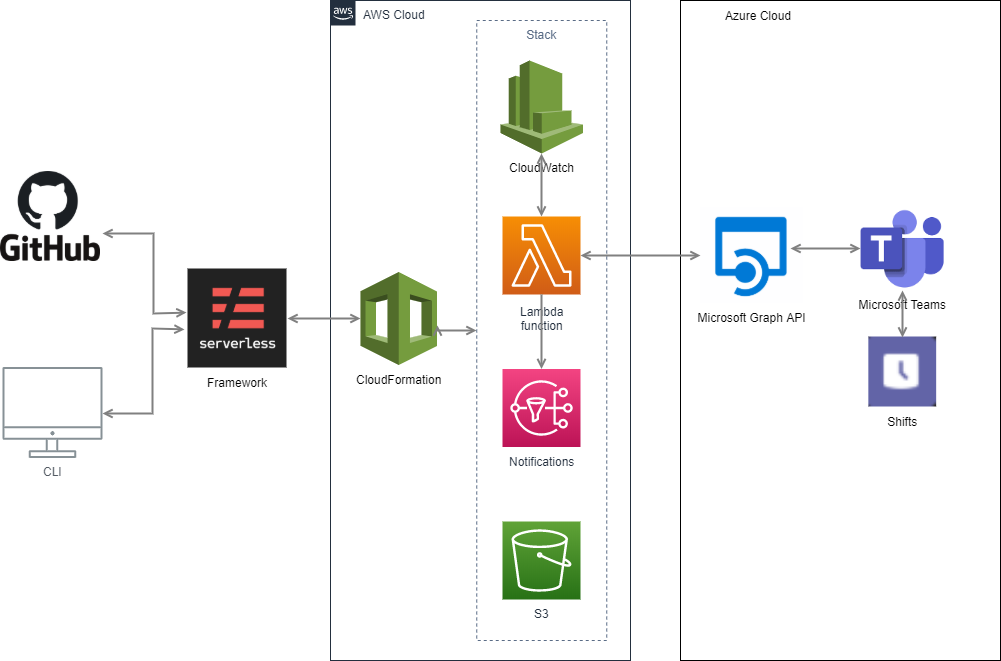
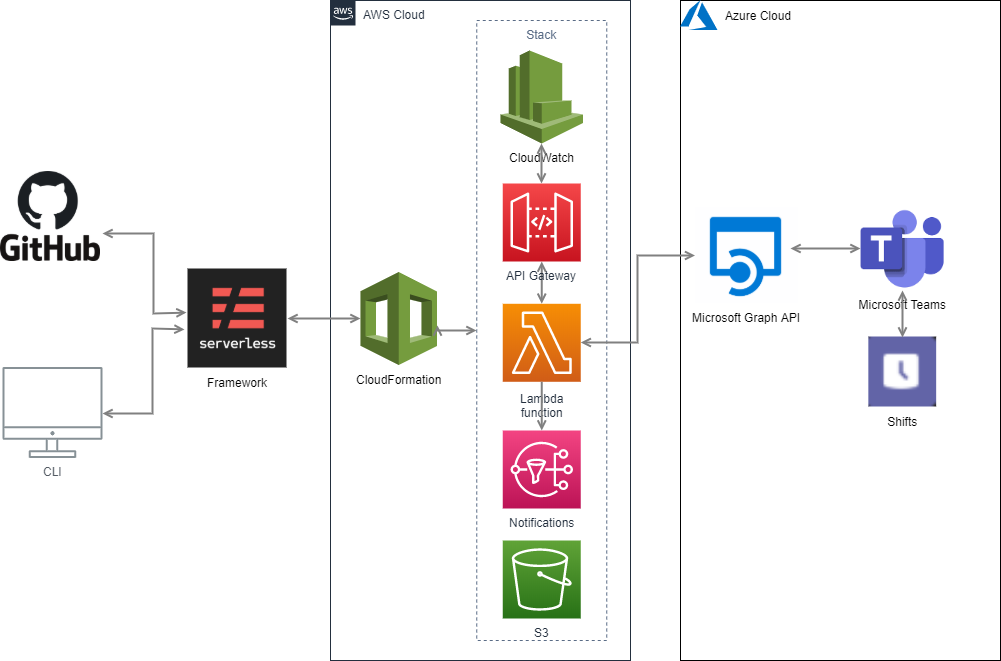
Add REST API (regional) exposure
The API will expose 2 endpoints

diff --git a/shiftsExplorer.py b/shiftsExplorer.py
@@ -18,7 +18,7 @@ g_microsoft_graph_api_token=None
 """
     Returns users shifts planned over a period
 """
-def getShiftsUsersForPeriod(event, context):
+def getShiftsUsersForPeriod(body):    
     getTokenResponse = getToken()
     if getTokenResponse is None:
         return manageResponse(407, "Unable to get credentials in AWS Secrets Manager")
@@ -28,8 +28,8 @@ def getShiftsUsersForPeriod(event, context):
     token=json.loads(getTokenResponse)
     global g_microsoft_graph_api_token
     g_microsoft_graph_api_token=token["access_token"]
-
-    shifts_response=json.loads(getShifts(g_microsoft_graph_api_token,event))
+    
+    shifts_response=json.loads(getShifts(g_microsoft_graph_api_token,body))
     if "error" in shifts_response:
         print(json.dumps(shifts_response))
         return manageResponse(407,json.dumps(shifts_response))
@@ -38,7 +38,7 @@ def getShiftsUsersForPeriod(event, context):
     # get the pattern to filter on shifts names
     regex="."
     global g_shift_name_pattern
-    g_shift_name_pattern=event["filters"]["shiftNamePattern"]
+    g_shift_name_pattern=body["filters"]["shiftNamePattern"]
     if g_shift_name_pattern:
         regex=g_shift_name_pattern
     pattern = re.compile(regex)
@@ -76,10 +76,23 @@ def getShiftsUsersForPeriod(event, context):
     return manageResponse(200,userdata_list, False)
 
 """
+    Returns users shifts planned over a period
+"""
+def apiGetShiftsUsersForPeriod(event, context):  
+    if "body" in event:
+        body=json.loads(event["body"])
+        return getShiftsUsersForPeriod(body)
+    return getShiftsUsersForPeriod(event)
+
+"""
     Returns users shifts planned on the next given week day
 """
-def getShiftsUsersForNextWeekDay(event, context):
-    weekday=getWeekDayNum(str(event["filters"]["nextWeekday"]))
+def apiGetShiftsUsersForNextWeekDay(event, context):
+    print(json.dumps(event))
+    body=event
+    if "body" in event:
+        body=json.loads(event["body"])
+    weekday=getWeekDayNum(str(body["filters"]["nextWeekday"]))
     now = datetime.datetime.now()
     d = datetime.date(now.year, now.month, now.day)
     next_period_fullday = next_weekday(d, weekday) # 0 = Monday, 1=Tuesday, 2=Wednesday...
@@ -91,11 +104,11 @@ def getShiftsUsersForNextWeekDay(event, context):
                 "startDateTime": str(next_period_fullday) + _DEFAULT_TIME,
                 "endDateTime": str(nextday) + _DEFAULT_TIME
             },
-            "shiftNamePattern": event["filters"]["shiftNamePattern"]
+            "shiftNamePattern": body["filters"]["shiftNamePattern"]
         }
     }
 
-    return getShiftsUsersForPeriod(input, context)
+    return getShiftsUsersForPeriod(input)
 
 def getShifts(token,event):
     url = "https://graph.microsoft.com/" + _MICROSOFT_GRAPH_API_VERSION + "/teams/"+g_team_id+"/schedule/shifts"

diff --git a/responseManager.py b/responseManager.py
@@ -1,9 +1,11 @@
+import json
 import notifier
 
 def manageResponse(statusCode, message, notify=True):
     response = {
         "statusCode": statusCode,
-        "body": message
+        "body": json.dumps(message),
+        "isBase64Encoded": False
     }
     if notify:
         notifier.notify(statusCode, message)

diff --git a/README.md b/README.md
@@ -93,8 +93,15 @@ Possible values for `nextWeekday`:
 5. Open a terminal on your local project directory:
 `
 $ npm install serverless-pseudo-parameters
-$ sls deploy [--stage dev] [--region eu-west-1]
+$ sls deploy [--stage dev] [--region eu-west-1] --myApiKey `<YOUR_API_KEY_VALUE>`
 `
+
+The value you specified in `<YOUR_API_KEY_VALUE>` must then be used in the headers `x-api-key` of your API call.
+
+In your terminal, your deployment might display something like:
+![](res/deploy.png)
+
+Besides you can see that the 2 endpoints are listed in the "Service Information" part.
 
 If you don't specify the `stage` and/or the `region`, il will use the values in the `custom` part of the `serverless.yml`:
  ```json
